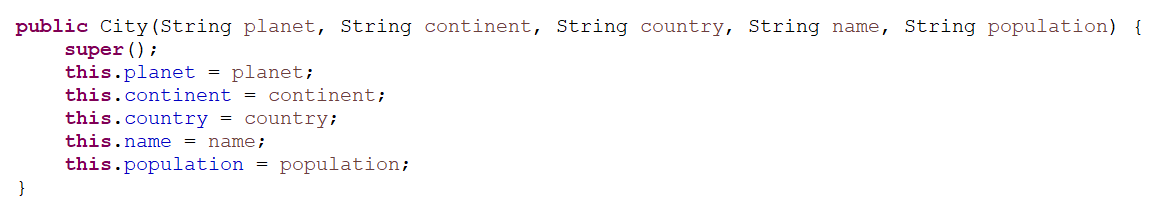
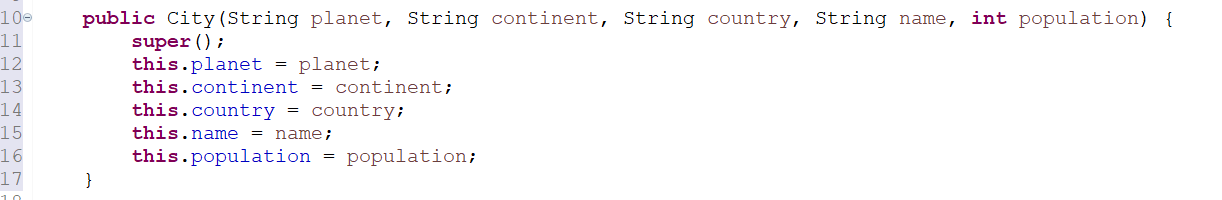
more quiz

Changed region(s): [[0.0, 0.0, 0.9863, 1.0]]

diff --git a/ClassesObjectsCAI/src/QuizClass.java b/ClassesObjectsCAI/src/QuizClass.java
@@ -1,6 +1,8 @@
 import java.awt.Color;
 import java.awt.Dimension;
+import java.awt.FlowLayout;
 import java.awt.Font;
+import java.awt.GridLayout;
 import java.awt.event.ActionEvent;
 import java.awt.event.ActionListener;
 import java.sql.Date;
@@ -30,6 +32,7 @@ public class QuizClass extends JFrame implements ActionListener {
 	int numQuestions = 10;
 	private String[] questionsArray = new String[numQuestions];
 	private JPanel[] questionPanelArray = new JPanel[numQuestions];
+	private JTextField[] textFieldArray = new JTextField[4];
 	
 	// timer related variables
 	private int[] timeArray = {10, 0, 10*1000*60 }; // minutes, seconds, time left
@@ -37,13 +40,25 @@ public class QuizClass extends JFrame implements ActionListener {
 	static Timer timer;
 	
 	private JButton finishQuiz = new JButton("submit");
-			
+	
+	private String[] questionArray = new String[10];
+	private JLabel[] questionLabelArray = new JLabel[10];
+	@SuppressWarnings("rawtypes")
+	private JComboBox[] trueFalseArray = new JComboBox[4];
+
+	 // Initialization of object of "JRadioButton" class. 
+    private JRadioButton  = new JRadioButton(); 
+
+    // Initialization of object of "JRadioButton" class. 
+    jRadioButton2 = new JRadioButton(); 
+	
+	private String[] tfArray = {"select","true","false"};
+
 	public QuizClass() {		
 
 		setSize(1366, 766);
 		setName("All About Objects+ + Classes");
-
-
+		
 		// set up main panel
 		mainPanel.setBounds(0, 0, 1366, 766);
 		mainPanel.setBackground(BEIGE);
@@ -55,6 +70,8 @@ public class QuizClass extends JFrame implements ActionListener {
 		setSecondPanel();
 
 		setQuestionsPanel();
+		initializeArrays();
+
 
 		setLayout(null);
 		setVisible(true);
@@ -78,6 +95,66 @@ public class QuizClass extends JFrame implements ActionListener {
 
 	}
 
+	private void initializeArrays() {
+		
+		// question array
+		questionArray[0] = "<html><br><br>What is an instance?</html>";
+		questionArray[1] = "<html><br><br>What is the difference between fields and instance variables?</html>";
+		questionArray[2] = "<html><br><br>TRUE OR FALSE: The data types of all objects is String<br><br><br><br><br><br></html>";
+		questionArray[3] = "<html><br><br>TRUE OR FALSE: Get methods are called accessor methods<br><br><br><br><br><br></html>";
+		questionArray[4] = "<html><br><br>TRUE OR FALSE: Every instance if familliar with it\'s own instance variables.<br><br><br><br><br><br></html>";
+		questionArray[5] = "<html><br><br>TRUE OR FALSE: To create a new instance, you use the toString method<br><br><br><br><br><br></html>";
+		questionArray[6] = "<html><br><br>FILL IN THE BLANK: <br><br>"
+				+ "a(n)&emsp;&emsp;&emsp;&emsp;&emsp;&emsp;&emsp;&emsp; "
+				+ "is used to modify the contents of an instance variable.</html>";
+		questionArray[7] = "<html><br><br>FILL IN THE BLANK: <br><br>"
+				+ "a(n)&emsp;&emsp;&emsp;&emsp;&emsp;&emsp;&emsp;&emsp;is a template for creating objects.</html>";
+		questionArray[8] = "<html><br><br>FILL IN THE MISSING CODE: <br><br>"
+				+ "atlanta.&emsp;&emsp;&emsp;&emsp;&emsp;&emsp;&emsp;&emsp;(100);</html>";
+		questionArray[9] = "<html><br><br>FILL IN THE MISSING CODE: <br><br>"
+				+ "City newYork = &emsp;&emsp;&emsp;&emsp;&emsp;&emsp;&emsp;&emsp;(\"Earth\", \"North America\", \"USA\", \"New York\", 8468000);</html>";		
+
+		
+		for (int index = 0; index < questionArray.length; index++ ) {
+			questionLabelArray[index] = new JLabel(questionArray[index]);
+			questionLabelArray[index].setBounds(40, 100, 766, 250);
+			questionLabelArray[index].setFont(MainMenuClass.inter.deriveFont(20f));
+
+			questionLabelArray[index].setLayout(null);
+			questionPanelArray[index].add(questionLabelArray[index]);
+			
+			//`if true/false (combo box)
+			
+			if (index > 1 && index < 6 ) {
+				trueFalseArray[index-2] = new JComboBox<Object>(tfArray);
+				trueFalseArray[index-2].setLayout(null);
+				trueFalseArray[index-2].setBorder(BorderFactory.createLineBorder(Color.black));
+				trueFalseArray[index-2].setFont(MainMenuClass.inter.deriveFont(20f));
+				trueFalseArray[index-2].setBounds(50, 100, 100, 40);
+
+				questionLabelArray[index].add(trueFalseArray[index-2]);
+
+
+			}
+			
+			// if needs text field
+			else if (index >= 6) {
+				textFieldArray[index-6] = new JTextField();
+				textFieldArray[index-6].setLayout(null);
+				textFieldArray[index-6].setBorder(BorderFactory.createLineBorder(Color.black));
+				textFieldArray[index-6].setFont(MainMenuClass.inter.deriveFont(20f));
+				textFieldArray[index-6].setBounds(50, 95, 130, 40);
+				
+				if (index == 8)
+					textFieldArray[index-6].setBounds(85, 95, 140, 40);
+				else if (index == 9)
+					textFieldArray[index-6].setBounds(150, 95, 150, 40);
+					
+				questionLabelArray[index].add(textFieldArray[index-6]);
+			}
+		}
+	}
+
 	// ONE PANEL
 	private void setQuestionsPanel() {
 
@@ -89,6 +166,7 @@ public class QuizClass extends JFrame implements ActionListener {
 
 		for (int index = 0; index < numQuestions; index++) {
 			setQuestionPanels(index);
+			questionLabelArray[index] = new JLabel();
 		}
 
 	}
@@ -107,6 +185,7 @@ public class QuizClass extends JFrame implements ActionListener {
 			questionPanelArray[index].setBackground(Color.WHITE);
 		
 		questionsPanel.add(questionPanelArray[index]);
+	
 		
 
 	}
@@ -139,7 +218,6 @@ public class QuizClass extends JFrame implements ActionListener {
 		topPanelOne.add(firstButton);
 
 		mainPanel.add(topPanelOne);
-
 	}
 
 	private void setSecondPanel() {
@@ -173,7 +251,7 @@ public class QuizClass extends JFrame implements ActionListener {
 		topPanelTwo.add(finishQuiz);
 
 		mainPanel.add(topPanelTwo);
-
+		
 	}
 	
 	@Override

diff --git a/ClassesObjectsCAI/src/City.java b/ClassesObjectsCAI/src/City.java
@@ -1,0 +1,19 @@
+
+public class City {
+	
+	String planet;
+	String continent;
+	String country;
+	String name;
+	int population;
+	
+	public City(String planet, String continent, String country, String name, int population) {
+		super();
+		this.planet = planet;
+		this.continent = continent;
+		this.country = country;
+		this.name = name;
+		this.population = population;
+	}
+
+}

diff --git a/ClassesObjectsCAI/src/CAIApp.java b/ClassesObjectsCAI/src/CAIApp.java
@@ -7,8 +7,9 @@ public class CAIApp {
 	
 	public static void main(String[] args) {
 				
-		new MainMenuClass();
+		//new MainMenuClass();
 		//new ActivityClass();
+		new QuizClass();
 	}
 
 }
